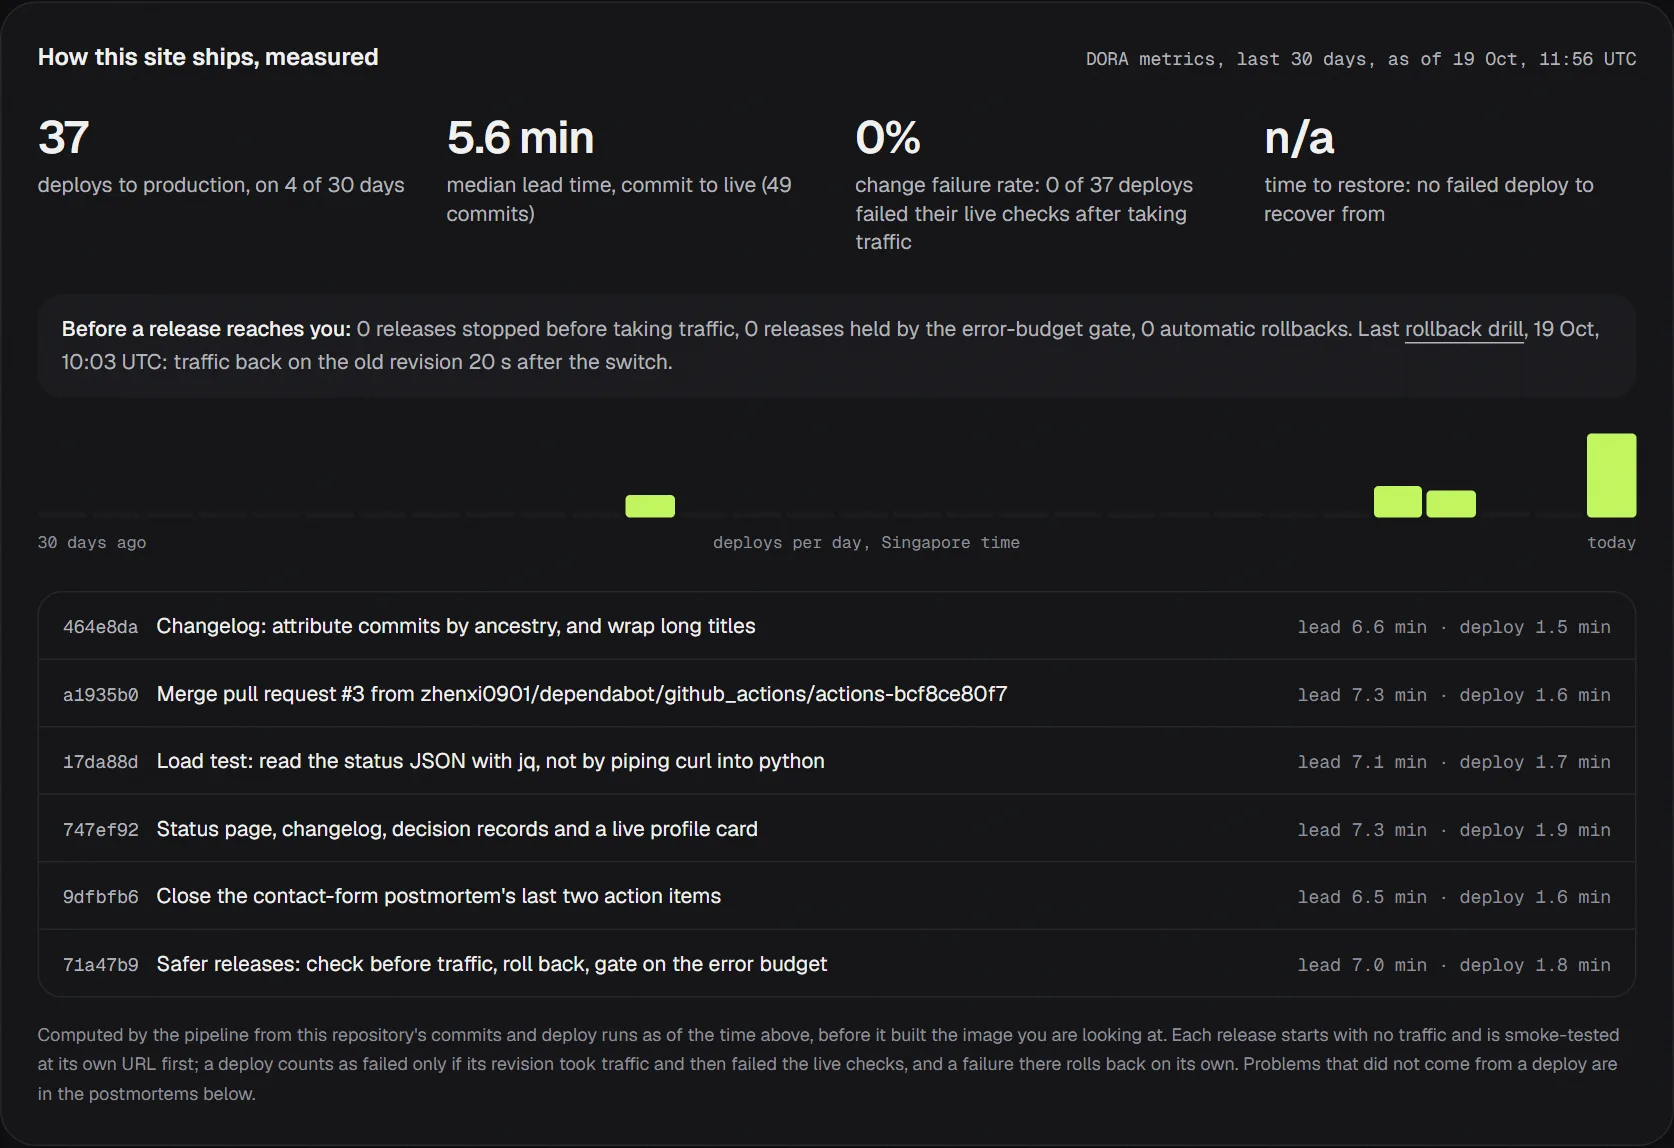
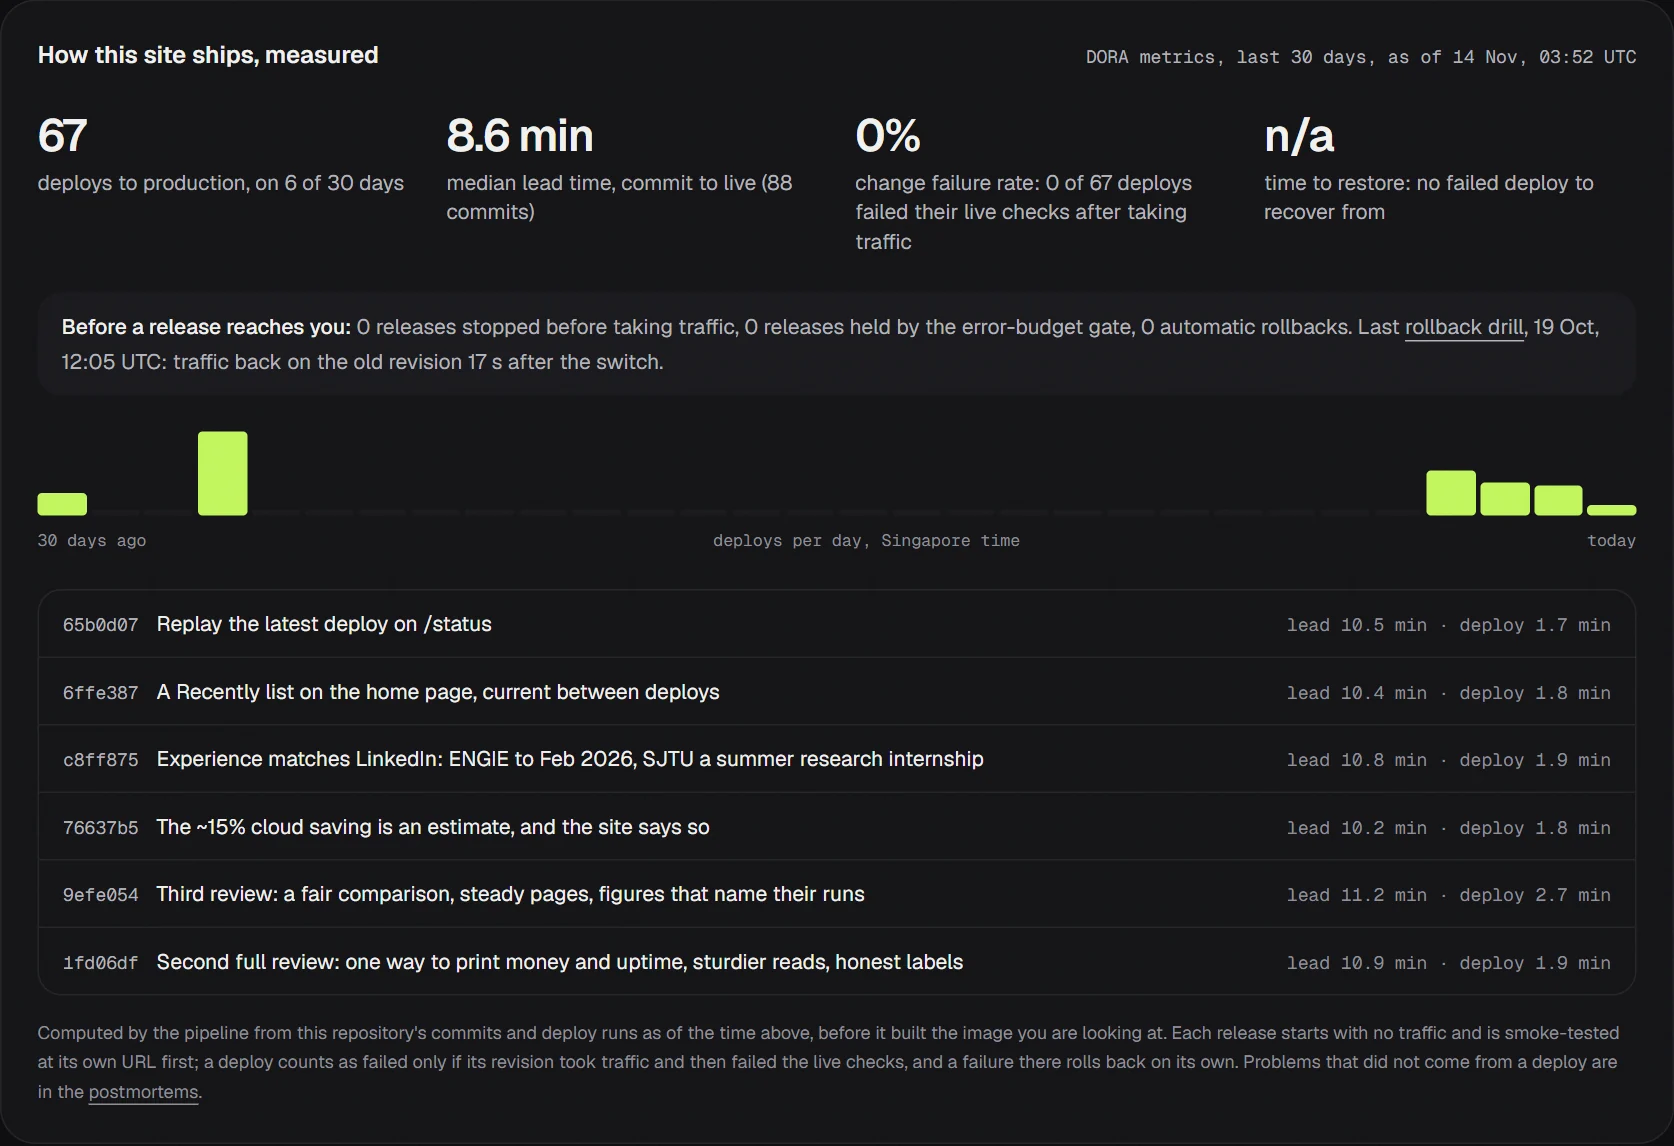
README current again; the hero's build time on a line of its own
- Screenshots retaken from the live site where they no longer matched it:
  the DORA panel (numbers from 19 Oct), the postmortem (3 h 36 min, before
  the correction to 3 h 32 min), the agents console (its answer predated
  "an estimated 15%"), the evidence page (18 claims, now 20), the on-call
  drill (no terminal link yet), break and cost. The map, the SLO board and
  the trace still match and stay.
- Test results rerun today: the smoke test is 22/22 (13/13 on 30 Sep),
  the load test on Docker Compose; the old VM row is gone.
- The image is about 50 MB now, not 30; the SLO and DORA metrics live on
  the status page; activity.json is one of the pipeline's snapshots.
- Hero map: the GitHub Actions card puts "built N min ago" on its own
  line. As one line, the card's width cap broke the phrase at every
  desktop width.

diff --git a/web/src/components/hero/live-map.tsx b/web/src/components/hero/live-map.tsx
@@ -164,7 +164,7 @@ const ROUTES = {
 type Route = keyof typeof ROUTES;
 
 /** A node: a link whose name is what it shows, plus where it goes for screen readers. */
-function Card({ node, title, sub, href, label, accent = false }: { node: Node; title: string; sub: string; href: string; label: string; accent?: boolean }) {
+function Card({ node, title, sub, href, label, accent = false }: { node: Node; title: string; sub: React.ReactNode; href: string; label: string; accent?: boolean }) {
   const [x, y] = N[node];
   return (
     <a
@@ -299,7 +299,8 @@ export function LiveMap() {
         <Card node="run" title="Cloud Run" sub={instance} href="/status" label={`Cloud Run in asia-southeast1${status ? `, an instance ${instance}` : ""}. The status page.`} accent />
         <Card node="page" title="This page" sub={page} href="/cost" label={`This page, served from the static export${visit?.cold ? " by an instance that had just started" : ""}. What the site costs.`} accent />
         <Card node="api" title="/api" sub="status · slo · cost" href="/agents" label="The JSON API and the MCP server: for agents." />
-        <Card node="actions" title="GitHub Actions" sub={deployed ? `${commit} · built ${deployed}` : commit} href="/changelog" label={`Built and deployed by GitHub Actions: commit ${commit}${deployed ? `, built ${deployed}` : ""}. The changelog.`} />
+        {/* Two lines on purpose: as one line the card's width cap broke "built 27 min ago" mid-phrase at every width. */}
+        <Card node="actions" title="GitHub Actions" sub={deployed ? <>{commit} <span className="block">built {deployed}</span></> : commit} href="/changelog" label={`Built and deployed by GitHub Actions: commit ${commit}${deployed ? `, built ${deployed}` : ""}. The changelog.`} />
         <Card node="probes" title="Uptime checks" sub="3 regions · 1/min" href="/status" label="Google Cloud uptime checks from Singapore, Belgium and Oregon, every minute. The status page." />
         <Card node="monitoring" title="Cloud Monitoring" sub={avail} href="/status" label={`Cloud Monitoring: ${avail}. The status page.`} />
         {visit && (

diff --git a/README.md b/README.md
@@ -68,10 +68,10 @@ Terraform ──> Cloud Run, Artifact Registry, Secret Manager, uptime check, ke
 
 | Area | Highlights |
 |---|---|
-| **Front end** (`web/`) | Next.js 16, React 19, Tailwind CSS v4, Motion, three.js via react-three-fiber. A hero that maps the visitor's own request live (connection setup, first byte and time in Go from the page's own timing, the instance and commit that answered, the uptime checks and SLO watching it), as a list on phones; the 3D "service mesh" hero it replaced is kept on `/v1`; seven playable case studies (pipeline gates with an approval step, a Kafka topic reaper, a ZooKeeper quorum alert, GKE pod and node autoscaling across zones, a remote-control lane with its safety guards, a cache password rolled out in two steps, an agent request's path through the AI platform); **Inside the IoT platform** (hop-by-hop traffic paths and tunnels; SLIs, SLOs and error budgets on a Grafana-style board with a replayable incident; a cause-alert playground for eight failure modes; the investigation route and runbook; a seven-move cost review); **the AI agent platform** (an animated system map with five request journeys and a "what I own" lens, the AI infrastructure stack layer by layer, a Langfuse-style request trace, what I measure on an LLM service); **research** (FYP charts, where an agent's time goes and what each MCP server costs per call, a prefix-cache explainer, the GPU-over-SSH setup, the Apptainer backend that runs the stack on a supercomputer without root); a page per case study, three postmortems from running this site and three longer write-ups (`/writing/<slug>`), each with its own generated share card, and a sitemap; an **on-call drill** (`/oncall`) that scores a simulated incident response and writes its postmortem; **break it yourself** (`/break`), fault injection on the live server with four client strategies drawn attempt by attempt; **what it costs** (`/cost`), a receipt from the service's own meters with a what-if for traffic spikes; a **capacity lab** in the research chapter for serving agents on one GPU; a **Recently** list on the home page (pull requests merged or in review, releases, the latest deploy and new writing, newest first, current between deploys); a 60-second guided tour (`/?tour`); the site's own SLO and DORA metrics in the status section; a **status page** (`/status`) with live state, 30-day availability, a replay of the latest deploy (every step of the run at its real start and length, sped up), how the site is watched, the incident history and an Atom feed; a **changelog** (`/changelog`) of every release and the commits it shipped, written by the pipeline; eleven **architecture decision records** (`/decisions`, also in `docs/adr`); an **evidence** page (`/evidence`) that sorts the site's claims by whether you can check them live, on public record, or not at all because the work is private; a page **for agents** (`/agents`) with a console that sends real MCP requests, `/llms.txt`, and a Markdown copy of every case study, write-up and postmortem under `/md/`; a trace of the visitor's own page load, and of each Ask answer; a **terminal** (press `` ` ``, or `/?terminal`): a shell in the page whose commands (`status`, `slo`, `cost`, `deploys`, `ask`, `mcp`, `curl`, `cat work/gke.md`) all read the live API, with tab completion and history, loaded only when first opened; a ⌘K command palette that searches by topic and reaches every page; dock navigation; light and dark themes. Content renders without JavaScript; motion respects `prefers-reduced-motion`. |
+| **Front end** (`web/`) | Next.js 16, React 19, Tailwind CSS v4, Motion, three.js via react-three-fiber. A hero that maps the visitor's own request live (connection setup, first byte and time in Go from the page's own timing, the instance and commit that answered, the uptime checks and SLO watching it), as a list on phones; the 3D "service mesh" hero it replaced is kept on `/v1`; seven playable case studies (pipeline gates with an approval step, a Kafka topic reaper, a ZooKeeper quorum alert, GKE pod and node autoscaling across zones, a remote-control lane with its safety guards, a cache password rolled out in two steps, an agent request's path through the AI platform); **Inside the IoT platform** (hop-by-hop traffic paths and tunnels; SLIs, SLOs and error budgets on a Grafana-style board with a replayable incident; a cause-alert playground for eight failure modes; the investigation route and runbook; a seven-move cost review); **the AI agent platform** (an animated system map with five request journeys and a "what I own" lens, the AI infrastructure stack layer by layer, a Langfuse-style request trace, what I measure on an LLM service); **research** (FYP charts, where an agent's time goes and what each MCP server costs per call, a prefix-cache explainer, the GPU-over-SSH setup, the Apptainer backend that runs the stack on a supercomputer without root); a page per case study, three postmortems from running this site and three longer write-ups (`/writing/<slug>`), each with its own generated share card, and a sitemap; an **on-call drill** (`/oncall`) that scores a simulated incident response and writes its postmortem; **break it yourself** (`/break`), fault injection on the live server with four client strategies drawn attempt by attempt; **what it costs** (`/cost`), a receipt from the service's own meters with a what-if for traffic spikes; a **capacity lab** in the research chapter for serving agents on one GPU; a **Recently** list on the home page (pull requests merged or in review, releases, the latest deploy and new writing, newest first, current between deploys); a 60-second guided tour (`/?tour`); a **status page** (`/status`) with live state, the site's own SLO and 30-day availability, its DORA metrics, a replay of the latest deploy (every step of the run at its real start and length, sped up), how the site is watched, the incident history and an Atom feed; a **changelog** (`/changelog`) of every release and the commits it shipped, written by the pipeline; eleven **architecture decision records** (`/decisions`, also in `docs/adr`); an **evidence** page (`/evidence`) that sorts the site's claims by whether you can check them live, on public record, or not at all because the work is private; a page **for agents** (`/agents`) with a console that sends real MCP requests, `/llms.txt`, and a Markdown copy of every case study, write-up and postmortem under `/md/`; a trace of the visitor's own page load, and of each Ask answer; a **terminal** (press `` ` ``, or `/?terminal`): a shell in the page whose commands (`status`, `slo`, `cost`, `deploys`, `ask`, `mcp`, `curl`, `cat work/gke.md`) all read the live API, with tab completion and history, loaded only when first opened; a ⌘K command palette that searches by topic and reaches every page; dock navigation; light and dark themes. Content renders without JavaScript; motion respects `prefers-reduced-motion`. |
 | **Back end** (`api/`) | Go 1.27, standard library `net/http`. Serves the static export with immutable caching and build-time brotli/gzip (no per-request compression CPU), plus `/api/status` (live uptime and latency percentiles), `/api/slo` (this site's own availability and error budget, read from Cloud Monitoring with the metadata server's token, standard library only), `/api/cost` (this month's usage from Cloud Monitoring, priced at list prices, read at most hourly), `/api/activity` (the home page's Recently list: my pull requests merged or in review in public repositories and my releases, baked in at build time and refreshed from GitHub's public API at most hourly, keeping the last good list when GitHub refuses), `/api/lab/echo` (the delays and 503s a visitor asks for, on their own requests only, capped and rate limited, kept out of the SLO and the live latency), `/api/ask` (BM25 retrieval over the site's own facts, optional LLM on top, cached, rate limited, prompt-injection fenced; traced with OpenTelemetry, exported to Cloud Trace by a small REST exporter, and each answer carries its own trace), `/api/contact` (validation, honeypot, rate limit, delivery to a Discord or Slack webhook before the visitor is told it was sent), `/api/badge/uptime` (a shields.io endpoint for the uptime badge: the 30-day window, or the time since measuring began until it fills), `/api/card.svg` (the live card on my GitHub profile: commit, uptime, error budget, release policy and DORA numbers, drawn by the server itself in light and dark; `/api/card.txt` is the same card as text, and `curl` on the home page gets it instead of HTML), `/api/map.svg` (an animated map of the site's own request path with this instance's live numbers, also for the profile), and `/mcp`: the site as a **Model Context Protocol server** with five read-only tools (`ask`, `search_facts`, `list_topics`, `get_status`, `get_delivery`) over the same facts and live numbers, stateless, speaking the 2026-07-28 revision and the older handshake, with no SDK and no model of its own. `Server-Timing` on every response (server time, Cloud Run revision, and process age on an instance's first visitor request, which the page uses to say "you woke this server up"). CSP and security headers, request IDs, structured logs, graceful shutdown. |
 | **Reliability** | A real SLO for the site itself: 99.9% over 30 days, measured by Google Cloud uptime checks every minute from three continents and shown on the page with the error budget left. For the local stack: Prometheus metrics with bounded route labels, recording rules for a 99.5% request SLO, a fast-burn alert that needs both the last hour and the last 5 minutes above 14.4x, latency and abuse alerts (`deploy/prometheus/rules.yml`), and a provisioned Grafana dashboard (`deploy/grafana`). |
-| **Delivery** | Multi-stage Dockerfile to a 30 MB distroless, non-root image. GitHub Actions: lint, typecheck, build, `go vet`, race-detector tests, a TypeScript/Go parity check, container smoke test, Lighthouse budgets and a CRITICAL-CVE gate, with every action pinned to a commit SHA. The image is built once: CI pushes it only after every check passes and attests its SBOM and build provenance. The deploy refuses an image whose attestations don't verify, holds the release if the site's own error budget is spent (unless the commit is marked `Reliability-fix:`), starts the new revision with no traffic and smoke-tests it at its own URL, then moves traffic and checks again, rolling back to the previous revision on its own if that fails; a manual **rollback drill** rehearses exactly that in production. Every release becomes a GitHub release with its SBOM and provenance attached. Keyless via Workload Identity Federation; only pushes to `main` in this repository deploy, never a fork's pull request. The production image's base images pinned by digest, Dependabot for updates, CodeQL and OpenSSF Scorecard on every push to `main`, Go fuzz tests for the inputs visitors control. |
+| **Delivery** | Multi-stage Dockerfile to a distroless, non-root image of about 50 MB. GitHub Actions: lint, typecheck, build, `go vet`, race-detector tests, a TypeScript/Go parity check, container smoke test, Lighthouse budgets and a CRITICAL-CVE gate, with every action pinned to a commit SHA. The image is built once: CI pushes it only after every check passes and attests its SBOM and build provenance. The deploy refuses an image whose attestations don't verify, holds the release if the site's own error budget is spent (unless the commit is marked `Reliability-fix:`), starts the new revision with no traffic and smoke-tests it at its own URL, then moves traffic and checks again, rolling back to the previous revision on its own if that fails; a manual **rollback drill** rehearses exactly that in production. Every release becomes a GitHub release with its SBOM and provenance attached. Keyless via Workload Identity Federation; only pushes to `main` in this repository deploy, never a fork's pull request. The production image's base images pinned by digest, Dependabot for updates, CodeQL and OpenSSF Scorecard on every push to `main`, Go fuzz tests for the inputs visitors control. |
 | **Infrastructure** (`infra/`) | Terraform for Cloud Run (scale to zero, probes, least-privilege runtime identity), Artifact Registry with cleanup policies, Secret Manager for the contact webhook and the optional LLM key, the uptime check behind the SLO (`infra/slo.tf`), Cloud Trace write access for the runtime identity (`infra/tracing.tf`), a read-only identity for the scheduled contact checks (`infra/watch.tf`), and a GitHub OIDC pool limited to this repository's `main` branch. |
 
 Why it is built this way, and what each choice costs, is in the [architecture decision records](docs/adr/README.md).
@@ -96,16 +96,14 @@ docker compose up --build
 ./api/scripts/test-in-docker.sh
 ```
 
-### Test results (30 Sep 2026, with the smoke test as it was then)
+### Test results (14 Nov 2026)
 
 | Where | Smoke test | Load test (2,000 requests per endpoint, 32 concurrent) | Server-side p99 |
 |---|---|---|---|
-| Laptop, Docker Compose | 13/13 | ~2,000 req/s per endpoint, 0 errors, client p99 under 6 ms | 0.11 ms |
-| GCP VM (n2-standard-8, asia-southeast1) | 13/13 | ~1,000 req/s per endpoint, 0 errors, client p99 under 6 ms | 0.07 ms |
+| Laptop (WSL 2), Docker Compose | 22/22 | 1,600 to 1,900 req/s per endpoint, 0 errors; client p99 5 ms for pages, 18 ms for `/api/status` | 0.33 ms |
 
-The load generator (one `curl` per request) is the bottleneck in both runs; the server answers in
-microseconds. The Ask rate limiter let exactly the per-minute budget through and returned 429 for
-the rest.
+The load generator (one `curl` per request) is the bottleneck: the server's own median is 0.03 ms. The
+Ask rate limiter let exactly the per-minute budget through and returned 429 for the rest.
 
 Browser end-to-end tests against the live site (13 Nov 2026, after a full re-review): all 27 pages
 in the sitemap at desktop and phone widths with no dead links or horizontal overflow, axe (WCAG 2.2 AA
@@ -191,8 +189,9 @@ cd web && npm run build && node scripts/gen-parity.mts && cp out/knowledge.json 
 node scripts/gen-adr.mts   # after editing decisions.ts: rewrites docs/adr
 ```
 
-`src/content/generated/` holds the pipeline's snapshots (`delivery.json`, `changelog.json`); CI rewrites them
-before each build, and `GITHUB_TOKEN=$(gh auth token) node scripts/delivery-stats.mjs` refreshes them by hand.
+`src/content/generated/` holds the pipeline's snapshots (`delivery.json`, `changelog.json`, `activity.json`); CI
+rewrites them before each build. By hand, `GITHUB_TOKEN=$(gh auth token) node scripts/delivery-stats.mjs` refreshes
+the first two, and `node scripts/activity.mjs` the third (it reads only public data, so it needs no token).
 
 ## Credits
 
